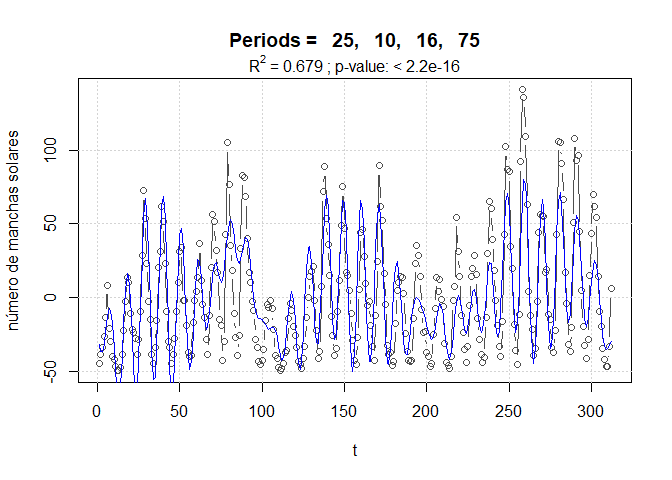
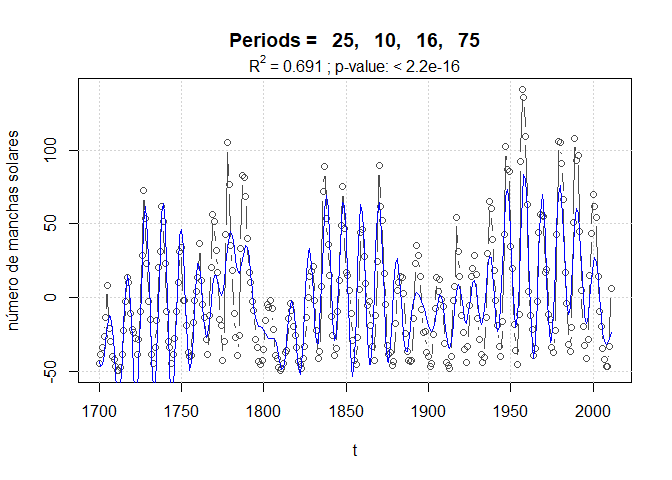
fix new example

diff --git a/README.md b/README.md
@@ -181,7 +181,7 @@ perReg$model
     x ~ 0 + cos(2 * pi/25 * t) + sin(2 * pi/25 * t) + cos(2 * pi/10 * 
         t) + sin(2 * pi/10 * t) + cos(2 * pi/16 * t) + sin(2 * pi/16 * 
         t) + cos(2 * pi/75 * t) + sin(2 * pi/75 * t)
-    <environment: 0x0000018acfa518d8>
+    <environment: 0x000001891ccd4a18>
 
 ``` r
 # ... y la tabla de datos
@@ -276,41 +276,45 @@ data(sunspots)
 En este caso, es conveniente centrar la serie a media cero para
 facilitar el ajuste. Para ello se utiliza el argumento
 `center.x = TRUE`. Aunque este es su valor por defecto, lo incluimos
-para no olvidarlo en los pasos siguientes.
+para no olvidarlo en los pasos siguientes. En el caso de la tendencia
+lineal, por defecto es `trend = FALSE`.
 
 ``` r
-dc <- cyclicDescent(x = sunspots$number, t = sunspots$year, center.x = TRUE)
+dc <- cyclicDescent(x = sunspots$number, t = sunspots$year, 
+                    center.x = TRUE, trend = TRUE)
 dc
 ```
 
     $harmonics
                Period Amplitude       Phase          Lag      RSS      R.sq
-    Model 1 :      11 30.152431  0.34382263   0.60193178 365500.1 0.2795383
-    Model 2 :      10 21.187340 -0.79193237  -1.26039951 295688.5 0.4171487
-    Model 3 :     103 16.731692  0.58526677   9.59425426 251786.2 0.5036874
-    Model 4 :      12 12.036872 -0.02045528  -0.03906671 229184.0 0.5482402
-    Model 5 :      53 11.665665 -2.12381823 -17.91485694 207826.9 0.5903386
-    Model 6 :     153  9.677547 -1.07924838 -26.28046027 193443.4 0.6186909
-    Model 7 :      66  7.975574  0.33860034   3.55673459 183762.4 0.6377737
-    Model 8 :      13  7.058581 -1.56061205  -3.22892858 175989.9 0.6530946
-    Model 9 :      43  6.079787  2.85416899  19.53296944 170323.2 0.6642646
-    Model 10 :     28  5.558053 -1.73077723  -7.71292903 165457.6 0.6738555
-    Model 11 :     14  5.009580 -0.54493707  -1.21421199 161541.8 0.6815743
-    Model 12 :     21  4.441830  1.08739385   3.63434625 158446.2 0.6876761
+    Model 1 :      11 30.247311  0.34077196   0.59659096 343431.9 0.2935470
+    Model 2 :      10 20.966748 -0.78665093  -1.25199383 275063.3 0.4341838
+    Model 3 :     103 15.540306  0.41521134   6.80654259 237101.6 0.5122725
+    Model 4 :      12 12.282051 -0.03944533  -0.07533504 213569.2 0.5606796
+    Model 5 :      53 10.428548 -2.20983877 -18.64045848 196551.5 0.5956858
+    Model 6 :      65  8.635190  2.80919476  29.06132009 185036.8 0.6193720
+    Model 7 :      13  7.109731 -1.50883452  -3.12180015 177151.3 0.6355928
+    Model 8 :      42  6.043541  3.12124861  20.86401006 171488.3 0.6472418
+    Model 9 :     156  5.909010 -3.02416184 -75.08440775 166041.3 0.6584464
+    Model 10 :     28  5.582236 -1.65101714  -7.35749108 161129.4 0.6685504
+    Model 11 :     21  5.177679  1.06899579   3.57285525 156922.3 0.6772046
+    Model 12 :     14  4.945557 -0.57673414  -1.28506126 153107.6 0.6850515
+    Model 13 :      8  4.476783 -2.47294348  -3.14864943 149981.2 0.6914828
 
     $Stats
                              F dfn dfd   p.value
-    Models 1 & 2 :   36.241134   2 307 7.410e-15
-    Models 2 & 3 :   26.590388   2 305 2.265e-11
-    Models 3 & 4 :   14.941020   2 303 6.480e-07
-    Models 4 & 5 :   15.465992   2 301 4.040e-07
-    Models 5 & 6 :   11.116085   2 299 2.205e-05
-    Models 6 & 7 :    7.823287   2 297 0.0004885
-    Models 7 & 8 :    6.514239   2 295 0.0017045
-    Models 8 & 9 :    4.874100   2 293 0.0082729
-    Models 9 & 10 :   4.278682   2 291 0.0147431
-    Models 10 & 11 :  3.502763   2 289 0.0313989
-    Models 11 & 12 :  2.803545   2 287 0.0622554
+    Models 1 & 2 :   38.153290   2 307 1.590e-15
+    Models 2 & 3 :   24.416353   2 305 1.459e-10
+    Models 3 & 4 :   16.693228   2 303 1.326e-07
+    Models 4 & 5 :   13.030520   2 301 3.738e-06
+    Models 5 & 6 :    9.303282   2 299 0.0001203
+    Models 6 & 7 :    6.610177   2 297 0.0015534
+    Models 7 & 8 :    4.870839   2 295 0.0082947
+    Models 8 & 9 :    4.805908   2 293 0.0088374
+    Models 9 & 10 :   4.435461   2 291 0.0126614
+    Models 10 & 11 :  3.874047   2 289 0.0218616
+    Models 11 & 12 :  3.575293   2 287 0.0292616
+    Models 12 & 13 :  2.970537   2 285 0.0528658
 
     attr(,"class")
     [1] "periods"
@@ -324,9 +328,27 @@ centró la serie y si se consideró tendencia.
 ``` r
 p <- dc$harmonics$Period[1:10]
 rp <- periodicRegModel(x = sunspots$number, t = sunspots$year, periods = p, 
-                       center.x = TRUE)
+                       center.x = TRUE, trend = TRUE)
 fit <- lm(rp$model, data = rp$data)
+harmonics(fit)
 ```
+
+    $linear_trend
+            alpha         betha 
+    -111.72298551    0.05998914 
+
+    $cyclic_components
+       Period Amplitude       Phase          Lag
+    1      11 27.349572  0.35548710   0.62235283
+    2      10 21.816833 -0.77421162  -1.23219607
+    3     103 17.616679  0.40519934   6.64241628
+    4      12 12.391677 -0.03133493  -0.05984531
+    5      53 11.164494 -2.28243270 -19.25280369
+    6      65  9.806605  2.91891729  30.19640751
+    9     156  7.352406 -2.91580975 -72.39422336
+    7      13  7.020756 -1.52824695  -3.16196472
+    8      42  6.753283 -2.98039437 -19.92246885
+    10     28  5.833121 -1.68326968  -7.50121931
 
 #### Figura final
 
